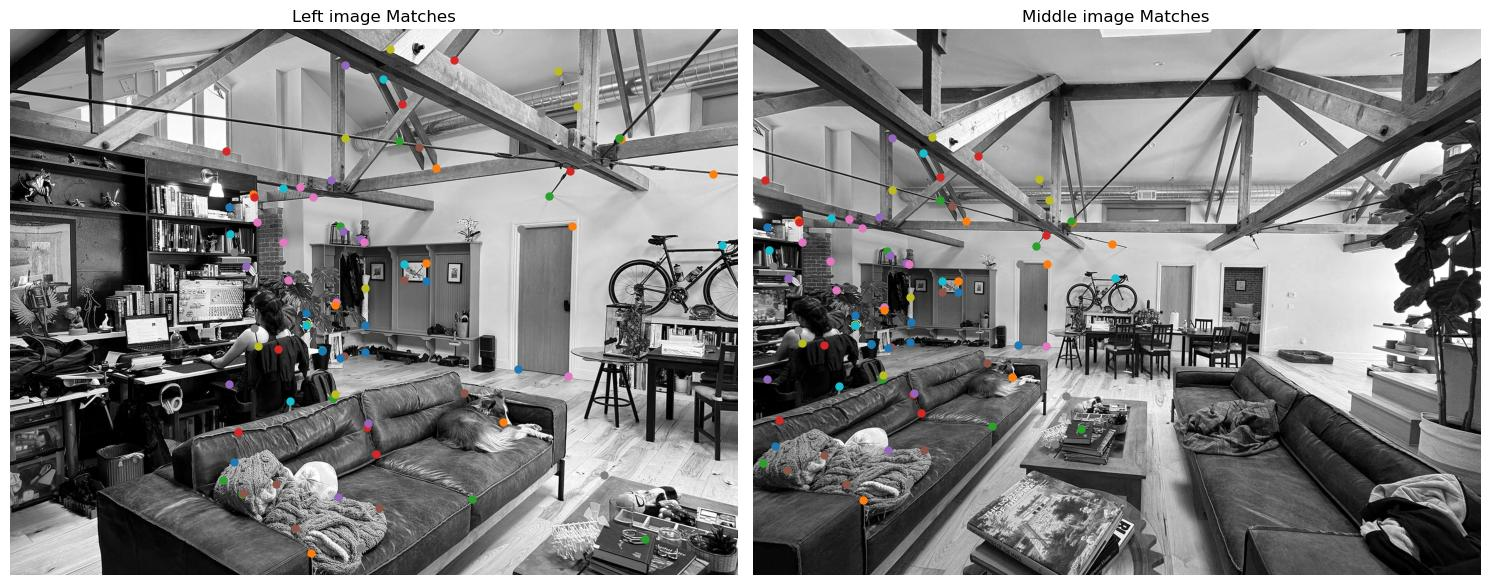
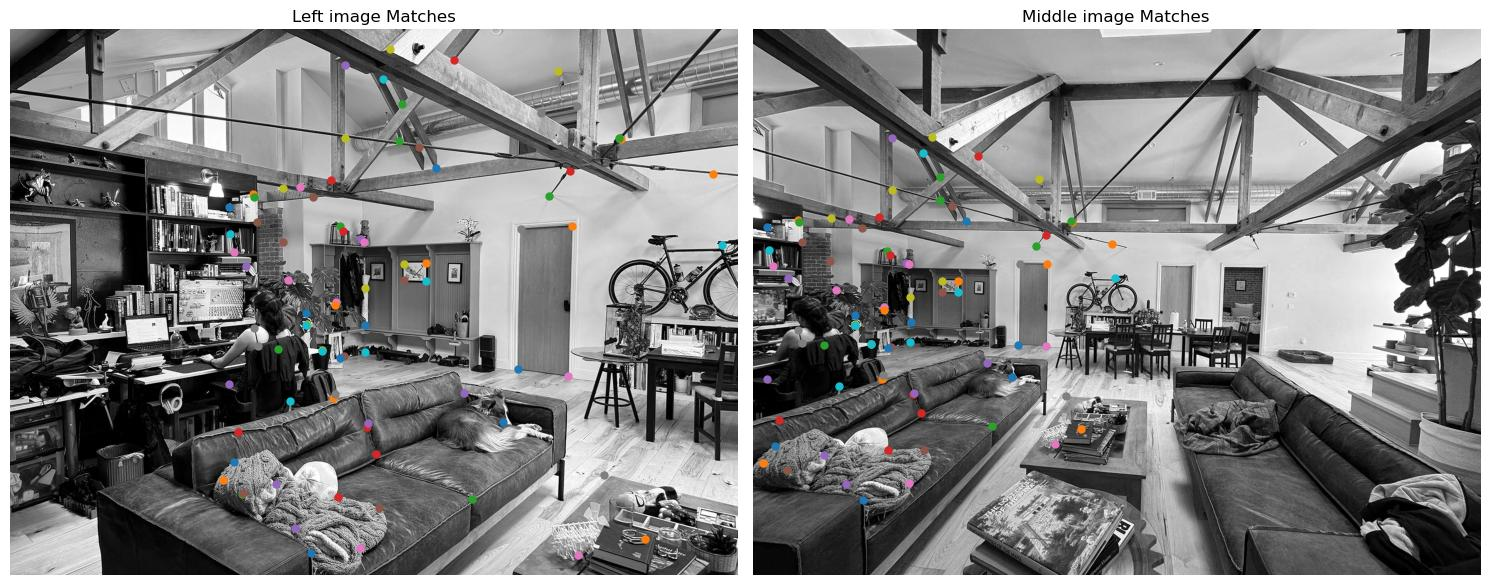
pass 2

diff --git a/4B/index.html b/4B/index.html
@@ -244,17 +244,17 @@
 
     <div class="image-wrapper indent-level-1">
         <div class="image-block">
-            <img src="./media/final_image_composite.jpg" alt="" width=950>
+            <img src="./media/Livingroom_mosaic.jpg" alt="" width=1500>
         </div>
     </div>
-    <p class='indented'> In the previus project we manually found corresponance points between two images, in order to
-        warp the perspective between them and create a mosaic. Now let's not waste time like chumps and compute the
-        correspondance as well! </p>
+    <p class='indented'> In <a href="https://alonsorobots.github.io/4">Project 4A</a> we manually found
+        correspondence points between two images, in order to warp the perspective between them and create a mosaic. Now
+        let's not waste time like chumps and automatically compute the correspondance as well! </p>
     <h2>Part 1 - Detect corner features in an image</h2>
     <div class="image-wrapper indent-level-1">
         <div class="image-block">
             <div class="image-item">
-                <div class="image-text">We first begin by computing the Harris corners of an portait of Harris: </div>
+                <div class="image-text">We first begin by computing the Harris corners of a portait of Harris: </div>
                 <img src="./media/harris_corners.jpg" alt="" width="450">
             </div>
         </div>
@@ -262,7 +262,8 @@
     <div class="image-wrapper indent-level-1">
         <div class="image-block">
             <div class="image-item">
-                <div class="image-text">Then we filter those interest points by taking the top 1k 'h scores'</div>
+                <div class="image-text">Then we filter those interest points by the weight of the 'h' scores and take
+                    the top 1k scores</div>
                 <img src="./media/filtered_harris_corners.jpg" alt="" width="450">
             </div>
         </div>
@@ -286,7 +287,7 @@
     <div class="image-wrapper indent-level-1">
         <div class="image-block">
             <div class="image-item">
-                <div class="image-text">For each of the coordinates, we find a a window of 40x40 pixels</div>
+                <div class="image-text">For each of the coordinates, we find a window of 40x40 pixels</div>
                 <img src="./media/harris_descriptors.jpg" alt="" width="450">
             </div>
         </div>
@@ -297,7 +298,9 @@
         <div class="image-block">
             <div class="image-item">
                 <div class="image-text">Subsequently, each one of those 40x40 patches gets scaled to 8x8 patches using
-                    anti-aliasing.<br>This is useful for making the architecture more translation invariant.</div>
+                    anti-aliasing.<br>This is useful for making the architecture more translation invariant. Here we see
+                    the patches applied back to the original image:
+                </div>
                 <img src="./media/harris_patches_overlay.jpg" alt="" width="450">
             </div>
         </div>
@@ -391,14 +394,13 @@
         </div>
     </div>
     <h2>Part 3- Feature Descriptor Matching</h2>
-    <p class='indented'> Now that we isolated interesting differentiable points in the image, we can start to
-        compare them to find the best matches. We do this by comparing the descriptors of the points in the two images
-        and finding the best matches. To find the matches, per patch we calculate the L2 distance (known as nearest
-        neighnor in Machine Learning) and store them in a sorted list. Instead of doing filtering based on global L2
-        distance between potential correspondances, we use the method described in
-        <a href="https://people.eecs.berkeley.edu/~malik/cs294/lowe-ijcv04.pdf">Distinctive Image Features from
-            Scale-Invariant Keypoints</a>. by David Lowe, we see that a better approach is to use the ratio of the
-        distances of the two best matches. If the ratio is less than 0.8, we consider the match to be valid. This in a
+    <p class='indented'> Now that we isolated interesting differentiable patches in the image, we can start to
+        compare them to each other to find correspondances. To find the matches, per patch we calculate the L2 distance
+        (known as nearest neighbor in Machine Learning) between all pairs of descriptors and store them in a sorted
+        list. Instead of doing filtering based on global L2 distance between potential correspondances, we use the
+        method described in <a href="https://people.eecs.berkeley.edu/~malik/cs294/lowe-ijcv04.pdf">Distinctive Image
+            Features from Scale-Invariant Keypoints</a>. by David Lowe in which we use the ratio of the distances of the
+        two best Nearest Neighbor matches. If the ratio is less than 0.8, we consider the match to be valid. This in a
         way gives "confidence score" in relation to the second best match.
 
         <br><br>Surprisingly this algorithm finds some corresponsances despite knowing the true alignment would
@@ -408,20 +410,20 @@
         <div class="image-block">
             <div class="image-item">
                 <div class="image-text"> Lowe's matching algorithm</div>
-                <div class="image-text">(I lowered the point interest count to more easily spot corresponance) </div>
+                <div class="image-text">(I lowered the point interest count to more easily spot correspondence) </div>
                 <img src="./media/room1_room2_matches.jpg" alt="" width="1200">
             </div>
         </div>
     </div>
     <h2>Part 4 - RANSAC</h2>
-    <p class='indented'>This could still use some improvement so let's ue RANSAC to find the best matches. Here are the
+    <p class='indented'>This could still use some improvement so let's use RANSAC to find the best matches. Here are the
         much improved results: </p>
     </p>
     <div class="image-wrapper indent-level-1">
         <div class="image-block">
             <div class="image-item">
                 <div class="image-text"> RANSAC + Lowe's matching algorithm </div>
-                <div class="image-text">(I lowered the point interest count to more easily spot corresponance) </div>
+                <div class="image-text">(I lowered the point interest count to more easily spot correspondence) </div>
                 <img src="./media/room1_room2_ransac_matches.jpg" alt="" width="1200">
             </div>
         </div>
@@ -441,13 +443,16 @@
     <div class="image-wrapper indent-level-1">
         <div class="image-block">
             <div class="image-item">
-                <div class="image-text"> <br>It seems close to 100% matching points! </div>
+                <div class="image-text"> <br>Using RANSAC it seems close to 100% matching points! </div>
                 <div class="image-text"> RANSAC + Lowe's matching algorithm </div>
                 <img src="./media/room1_room2_ransac_matches_real.jpg" alt="" width="1200">
             </div>
         </div>
     </div>
     <h3>Final result</h3>
+    <p class='indented'> We then compute the homography warp per each pair of correspondances and stitch the images
+        together. For the blending I used the same texture as in project4 which I think gives a nice result:
+    </p>
     <div class="image-wrapper indent-level-1">
         <div class="image-block">
             <div class="image-item">
@@ -484,8 +489,12 @@
         </div>
     </div>
     <h2>Part 5 - Reflection</h2>
-    <p class='indented'> Non-standardization of X and Y order across functions is challengeing. aligning the warped
-        images and expanding canvas was hard.
+    <p class='indented'> My favorite part was seeing how powerful RANSAC is even without rotation or scale invariance in
+        the descriptors. Given we know for sure that to align the images it would require a perspective warp, it's
+        impressive it works. My suspicion is that this is mostly because of the translation invariance from blurring the
+        descriptors. Some challenges I had during this project were fighting with the non-standardization of X and Y
+        order across libraries. Surprisingly figuring out how to expand the canvas and align the multiple stitches was
+        harder than I thought it would be!.
     </p>
 
 

diff --git a/index.html b/index.html
@@ -169,9 +169,16 @@
         </a>
 
         <a href="/4/index.html" class="project-card">
-            <div class="project-title">Face Morphing and Modeling a Photo Collection</div>
+            <div class="project-title">Stitching image mosaics part 1</div>
             <img src="/mainpage_media/proj4.jpg" alt="Face Morphing" class="project-image">
             <div class="project-description">Project 4A: Image rectification, Homographies, and Stitching Photo Mosaics.
+            </div>
+        </a>
+
+        <a href="/4/index.html" class="project-card">
+            <div class="project-title">Stitching image mosaics part 2</div>
+            <img src="/mainpage_media/proj4.jpg" alt="Face Morphing" class="project-image">
+            <div class="project-description">Project 4B: Feature Matching for Autostitching.
             </div>
         </a>
     </div>
